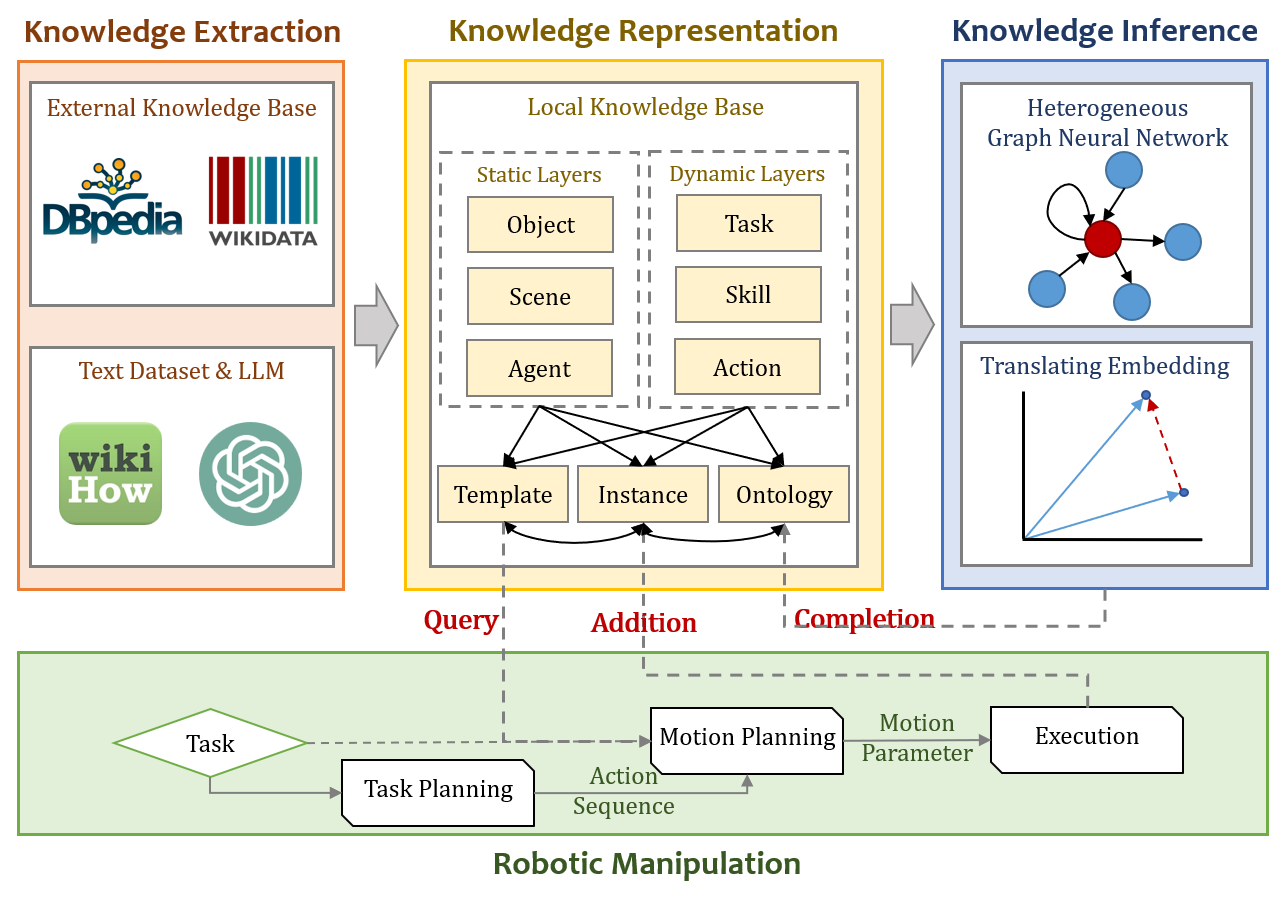
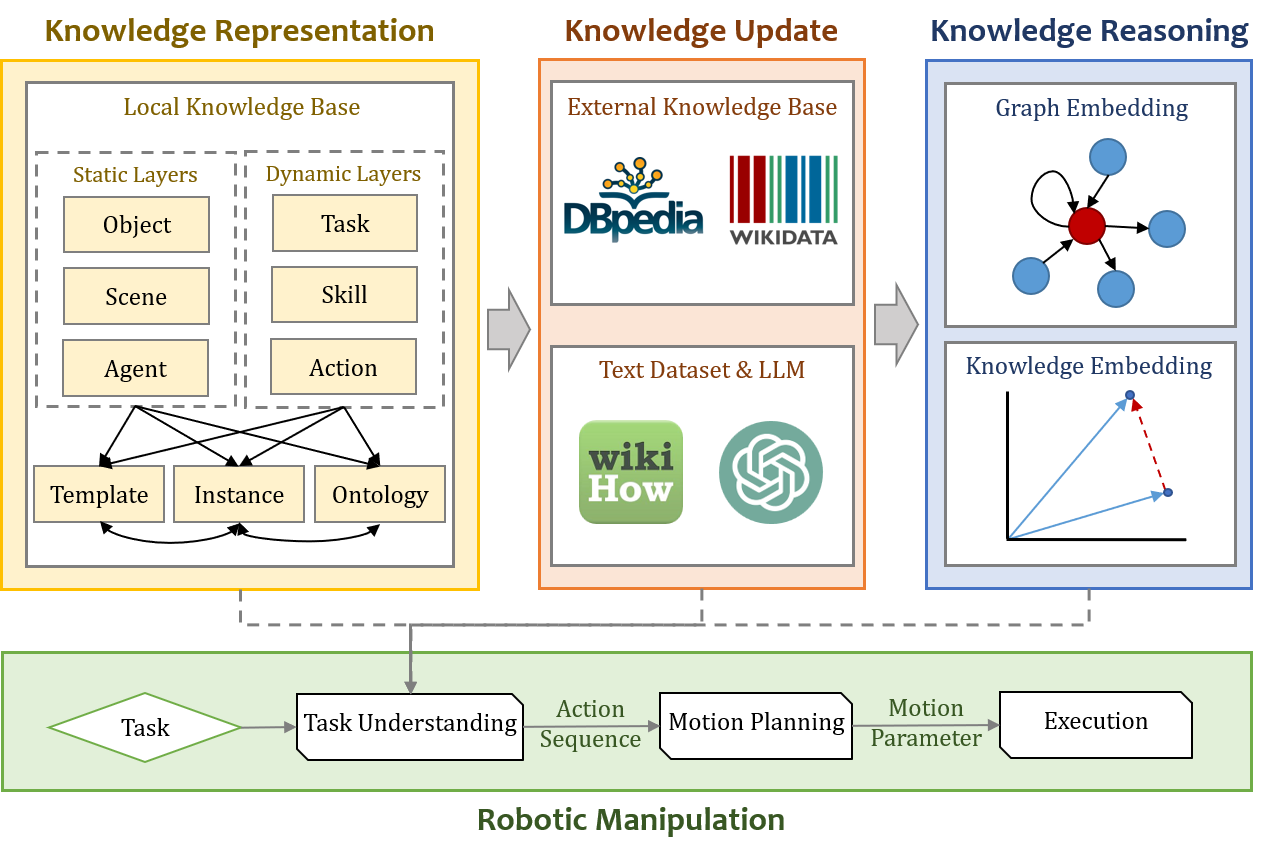
change the title and pipeline

diff --git a/README.md b/README.md
@@ -1,4 +1,4 @@
-# Hierarchical Representation in Robotic Manipulation: A Knowledge-based Framework
+# Hierarchical Understanding in Robotic Manipulation: A Knowledge-based Framework
 
 ![overview](overview.png)
 
